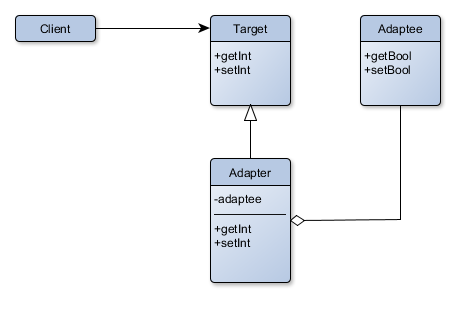
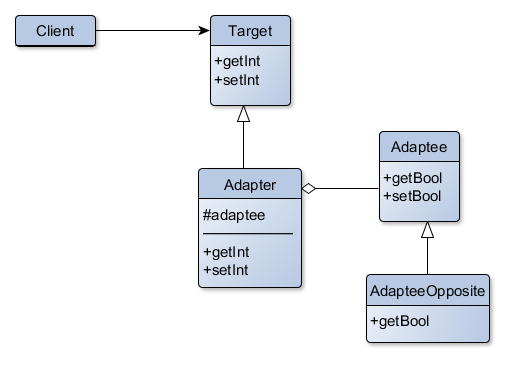
corretto un errore di codice ObjectAdapter,
realizzati corretti TeX Class e Object Adapter + breve pezzo EclEmma
aggiustati i 2 grafici per ObjectAdapter per leggibilita'

Changed region(s): [[0.7077, 0.0304, 0.9846, 0.9726], [0.3692, 0.4559, 0.6769, 0.8815], [0.0308, 0.0304, 0.6462, 0.3951]]

diff --git a/DesignPatterns_Graphs/Relazione_Fabbri_Santoni.tex b/DesignPatterns_Graphs/Relazione_Fabbri_Santoni.tex
@@ -98,7 +98,7 @@ We will study:
 \subsubsection{Class Diagram}
 \begin{figure}[!h]
 	\centering
-	\includegraphics[width=0.3\textwidth]{./Adapter/Class/ClassDiagram.png}
+	\includegraphics[width=0.6\textwidth]{./Adapter/Class/ClassDiagram.png}
 	\caption{Class Adapter: Class Diagram }
 	\label{CAclassDiag}
 \end{figure}
@@ -106,7 +106,7 @@ We will study:
 \begin{itemize}
 	\item \textbf{Adaptee}: legacy class with specific methods and fields
 	\item \textbf{Target}: desired interface
-	\item \textbf{ClassAdapter}: inheriting from Adaptee and Target both, adapts the legacy methods to the desired interface  
+	\item \textbf{ClassAdapter}: inherits from both Adaptee and Target, adapts the legacy methods to the desired interface  
 \end{itemize}
 
 \subsubsection{Fault Model}
@@ -117,42 +117,44 @@ Given that the pattern focuses on allowing access to legacy methods through a ne
 \end{itemize}
 
 \subsection{Testing}
-To negate the two source of failures we reasoned that it is sufficient to test the ways in which the variable \textit{bool\_value} interacts with the methods:
+The two sources of failure both depend on the inability of the Client to reach the Adaptee methods through the Adapter.  We reasoned that it is thus sufficient to test the ways in which the variable \textit{bool\_value} interacts and is modified by the methods. As long as the variable changes in an unexpected way the connection between Client and Adaptee is in fact cut off.
+\newline
+We have thus represented the field's interaction with the class methods through a data flow graph in which the granularity was set such that basic blocks are represented by functions.
 
-\begin{itemize}
-	\item having represented the field's interaction with the class methods through a data flow graph whose basic blocks are methods, we decided to test them following the all-uses criterion.    
-\end{itemize}
+We then decided to test the interaction between the variable and the methods following the\textit{ all-uses} criterion, we in fact deemed the\textit{ all-def} criterion not useful to test this pattern because we value mainly the transmission of the right value of the field and thus all its \textit{uses}.    
+
 
 \paragraph{Data Flow Graph}
-\begin{figure}[!h]
+ The Client is the only external class interacting with the public methods of the Adapter. The Data Flow Graph can be seen in Figure \ref*{CAdataflow}.
+\begin{figure}[h]
 	\centering
-	\includegraphics[width=0.3\textwidth]{./Adapter/Class/CallGraph.png}
+	\includegraphics[width=0.8\textwidth]{./Adapter/Class/CallGraph.png}
 	\caption{Data Flow Graph: \textit{bool\_value}}
 	\label{CAdataflow}
 \end{figure}
 
 
 \subsubsection{Tests}
-We generated a test suite capable to test all the \textit{all-uses} paths:
-\begin{enumerate}
-	\item Adapter() GetInt() 
-	\item Adapter() GetBool() 
+We generated a test suite capable of testing all the \textit{all-uses} paths:
+\begin{itemize}
+	\item Adapter() getInt() 
+	\item Adapter() getBool() 
 	\item Adapter() setInt() getInt() 
 	\item Adapter() setInt() getBool() 
 	\item Adapter() setBool() getInt()
-	
-\end{enumerate}
+	\newline
+\end{itemize}
 The special case of
-\begin{enumerate}
-		\item \item Adapter() setBool() getbool() 
+\begin{itemize}
+	\item Adapter() setBool() getBool() 
 		
-\end{enumerate}	
-is not tested because all the methods are directly inherited from the legacy (and thus supposedly already tested) class and no side-effects, which could have invalidated some invariants, are introduced in the adapter.
+\end{itemize}	
+is not tested because all the methods are directly inherited from the legacy class(and thus are supposedly already tested) and no side-effects, which could have invalidated some invariants, are introduced in the adapter.
 
 In this particular pattern the presence of a lone object other than the Client makes Unit and Integration tests un-distinguishable.
 
 \subsubsection{Code Coverage}
-The code coverage measure obtained from EclEmma Java plugin is: 100%.
+The code coverage measure obtained from EclEmma Java plug-in is: 100\%.
 
 %%%%%%%%%%%%%%%%%%%%%%%%%%%%%%%%%%%%%%%%%%%%%1
 \section{Object Adapter}
@@ -160,13 +162,15 @@ Adapts a pre-existent class to a new interface through class composition.
 
 Through the new interface the old methods can be directly presented, modified, produce aggregated results or completely new functionality can be added. 
 
-The composition adds the possibility of dynamically switching the adapted legacy class.
+The composition adds the possibility of dynamically switching the adapted legacy class (not contemplated in our implementation) and the possibility of overridden methods with altered functionality.
+
+If the adaptee class is declared final, the increased complexity from overridden methods is eliminated but the extra functionality is removed as well.
 
 
 \subsubsection{Class Diagram}
 \begin{figure}[!h]
 	\centering
-	\includegraphics[width=0.3\textwidth]{./Adapter/Object/ClassDiagram.png}
+	\includegraphics[width=0.7\textwidth]{./Adapter/Object/ClassDiagram.png}
 	\caption{Object Adapter: Class Diagram }
 	\label{OAclassDiag}
 \end{figure}
@@ -174,7 +178,7 @@ The composition adds the possibility of dynamically switching the adapted legacy
 \begin{itemize}
 	\item \textbf{Adaptee}: legacy class with specific methods and fields
 	\item \textbf{Target}: desired interface
-	\item \textbf{ObjectAdapter}: inheriting from Target, adapts the legacy methods to the desired interface through delegation. 
+	\item \textbf{ObjectAdapter}: inherits from Target, adapts the legacy methods to the desired interface through delegation. 
 \end{itemize}
 
 \subsubsection{Fault Model}
@@ -182,45 +186,69 @@ Given that the pattern focuses on allowing access to legacy methods through a ne
 \begin{itemize}
 	\item the adapter did not inherit from the legacy class or the new interface
 	\item the adapter for some reason cannot interact with the legacy methods 
+	\item the instance contained in the adapter, which inherited the adaptee class, has overrode its methods in an unforeseen way
 \end{itemize}
+
 
 \subsection{Testing}
-To negate the two source of failures we reasoned that it is sufficient to test the ways in which the variable \textit{bool\_value} interacts with the methods:
 
-\begin{itemize}
-	\item having represented the field's interaction with the class methods through a data flow graph whose basic blocks are methods, we decided to test them following the all-uses criterion.    
-\end{itemize}
+The sources of failure depend on the inability of the Client to reach the Adaptee methods through the Adapter or in the inability of the Adapter in foreseeing the possible ways in which the Adaptee methods can be overridden:  we reasoned that it is sufficient to test the ways in which the variable \textit{bool\_value} interacts and is modified by the methods, considering all the possible alternative implementations. 
+As long as the variable changes in an unexpected way the connection between Client and Adaptee is in fact cut off.
+
+The problem of testing thus expands in two different orthogonal dimensions: data flow, the series of calls that modify or use the variable\textit{bool\_value},  and topology, the different ways the class are ordered in a hierarchy at runtime.
+
+We decided to explore both of them separately in specific focused tests.
+\newline
+\subparagraph{Data flow}
+We have represented the field's interaction with the class methods through a data flow graph in which the granularity was set such that basic blocks are represented by functions.
+
+We then decided to test the interaction between the variable and the methods following the\textit{ all-uses} criterion, we in fact deemed the \textit{all-def} criterion not useful to test this pattern because we value mainly the transmission of the right value of the field and thus all its \textit{uses}.   
+\subparagraph{Topology}
+We have tested separately the overridden variants of the methods through simple tests.
+
+We reasoned that such a separation would allow us to sufficiently cover the code while maintaining a low number of tests.
+
 
 \paragraph{Data Flow Graph}
+Like the ClassAdapter, only the Client interacts with the Adapter methods.
+The Data Flow Graph can be seen in Figure \ref*{OAdataflow}.
 \begin{figure}[!h]
 	\centering
-	\includegraphics[width=0.3\textwidth]{./Adapter/Class/CallGraph.png}
+	\includegraphics[width=0.8\textwidth]{./Adapter/Object/CallGraph.png}
 	\caption{Data Flow Graph: \textit{bool\_value}}
-	\label{CAdataflow}
+	\label{OAdataflow}
 \end{figure}
 
 
 \subsubsection{Tests}
-We generated a test suite capable to test all the \textit{all-uses} paths:
+
+
+
+We generated a test suite capable of testing all the \textit{all-uses} paths:
 \begin{enumerate}
-	\item Adapter() GetInt() 
-	\item Adapter() GetBool() 
+	\item Adapter() getInt() 
 	\item Adapter() setInt() getInt() 
-	\item Adapter() setInt() getBool() 
-	\item Adapter() setBool() getInt()
 	
 \end{enumerate}
-The special case of
+To these are also added the topology tests:
 \begin{enumerate}
-	\item \item Adapter() setBool() getbool() 
-	
+	\item Adapter( Adaptee ) getInt() 
+	\item Adapter( AdapteeOpposite ) getInt()
 \end{enumerate}	
-is not tested because all the methods are directly inherited from the legacy (and thus supposedly already tested) class and no side-effects, which could have invalidated some invariants, are introduced in the adapter.
+Of these the first, being already tested in the first suite, is not repeated.
 
-In this particular pattern the presence of a lone object other than the Client makes Unit and Integration tests un-distinguishable.
+Since in this pattern the tested class's methods (Adapter's) interacted with external classes (Adaptee) we  differentiated between Unit and Integration tests.
 
+We utilized Mockito's \textit{mock} function to isolate errors with an origin in external classes from interfering with the Adapter class's code.
 \subsubsection{Code Coverage}
-The code coverage measure obtained from EclEmma Java plugin is: 100%.
+The code coverage measure obtained from EclEmma Java plugin is: 98.6\% 
+\begin{itemize}
+	\item Adapter: 97.1\% (UnitTest: 88.6\%)
+	\item Adaptee: 100\%
+	\item AdapteeOpposite: 100\% 
+\end{itemize}
+
+The single remaining untested branch is a setter method which was not called with all the possible inputs equivalence classes.
 
 %%%%%%%%%%%%%%%%%%%%%%%%%%%%%%%%%%%%%%%%%%%%%2
 
@@ -246,12 +274,17 @@ The code coverage measure obtained from EclEmma Java plugin is: 100%.
 
 %%%%%%%%%%%%%%%%%%%%%%%%%%%%%%%%%%%%%%%%%%%%%8
 
-\chapter{JUnit & Mockito}
+\chapter{JUnit \& Mockito}
 
 \section{JUnit}
 \section{Mockito}
 \paragraph{EclEmma}
+EclEmma is a plug-in which measures the branch coverage of the bytecode produced by the compiler. The branches which were not tested are then traced back to the code and highlighted as a warning. 
 
+In some cases such highlighting is confusing and can even be impossible to eliminate through testing: the Java compiler in fact sometimes creates additional bytecode that seems to have no relation to the source code (e.g. synthetic classes and methods). 
+
+In some other cases test execution is questionable or impossible by design: for example private, empty default constructors (assuming they receive no calls) or methods that contains no logic, like plain getters and setters,
+or even extra exception handlers installed to close resources from try/with statements.
 
 \chapter{Conclusioni}
 

diff --git a/src/objectAdapter/ObjectAdapter.java b/src/objectAdapter/ObjectAdapter.java
@@ -2,12 +2,12 @@ package objectAdapter;
 
 
 public class ObjectAdapter implements Target{
-	
+
 	private Adaptee adaptee;
 	public ObjectAdapter(Adaptee adaptee){
 		this.adaptee = adaptee;
 	}
-		
+
 	public void setIntResult(int newVal){
 		adaptee.setBooleanResult((newVal==0?false:true));
 	}
@@ -17,7 +17,7 @@ public class ObjectAdapter implements Target{
 		if(adaptee instanceof AdapteeOpposite){
 			b=!b;
 		}
-		
+
 		return (b?1:0);
 	}
 }

diff --git a/src/objectAdapter/Adaptee.java b/src/objectAdapter/Adaptee.java
@@ -2,7 +2,7 @@ package objectAdapter;
 
 public class Adaptee {
 	
-	private boolean current=false;
+	protected boolean current=false;
 	
 	public void setBooleanResult(boolean newValue){
 		current= newValue;

diff --git a/src/objectAdapter/AdapteeOpposite.java b/src/objectAdapter/AdapteeOpposite.java
@@ -3,8 +3,7 @@ package objectAdapter;
 
 public class AdapteeOpposite extends Adaptee{
 	
-	private boolean current=false;
-	
+		
 
 	public boolean getBooleanResult(){
 		return !current;
